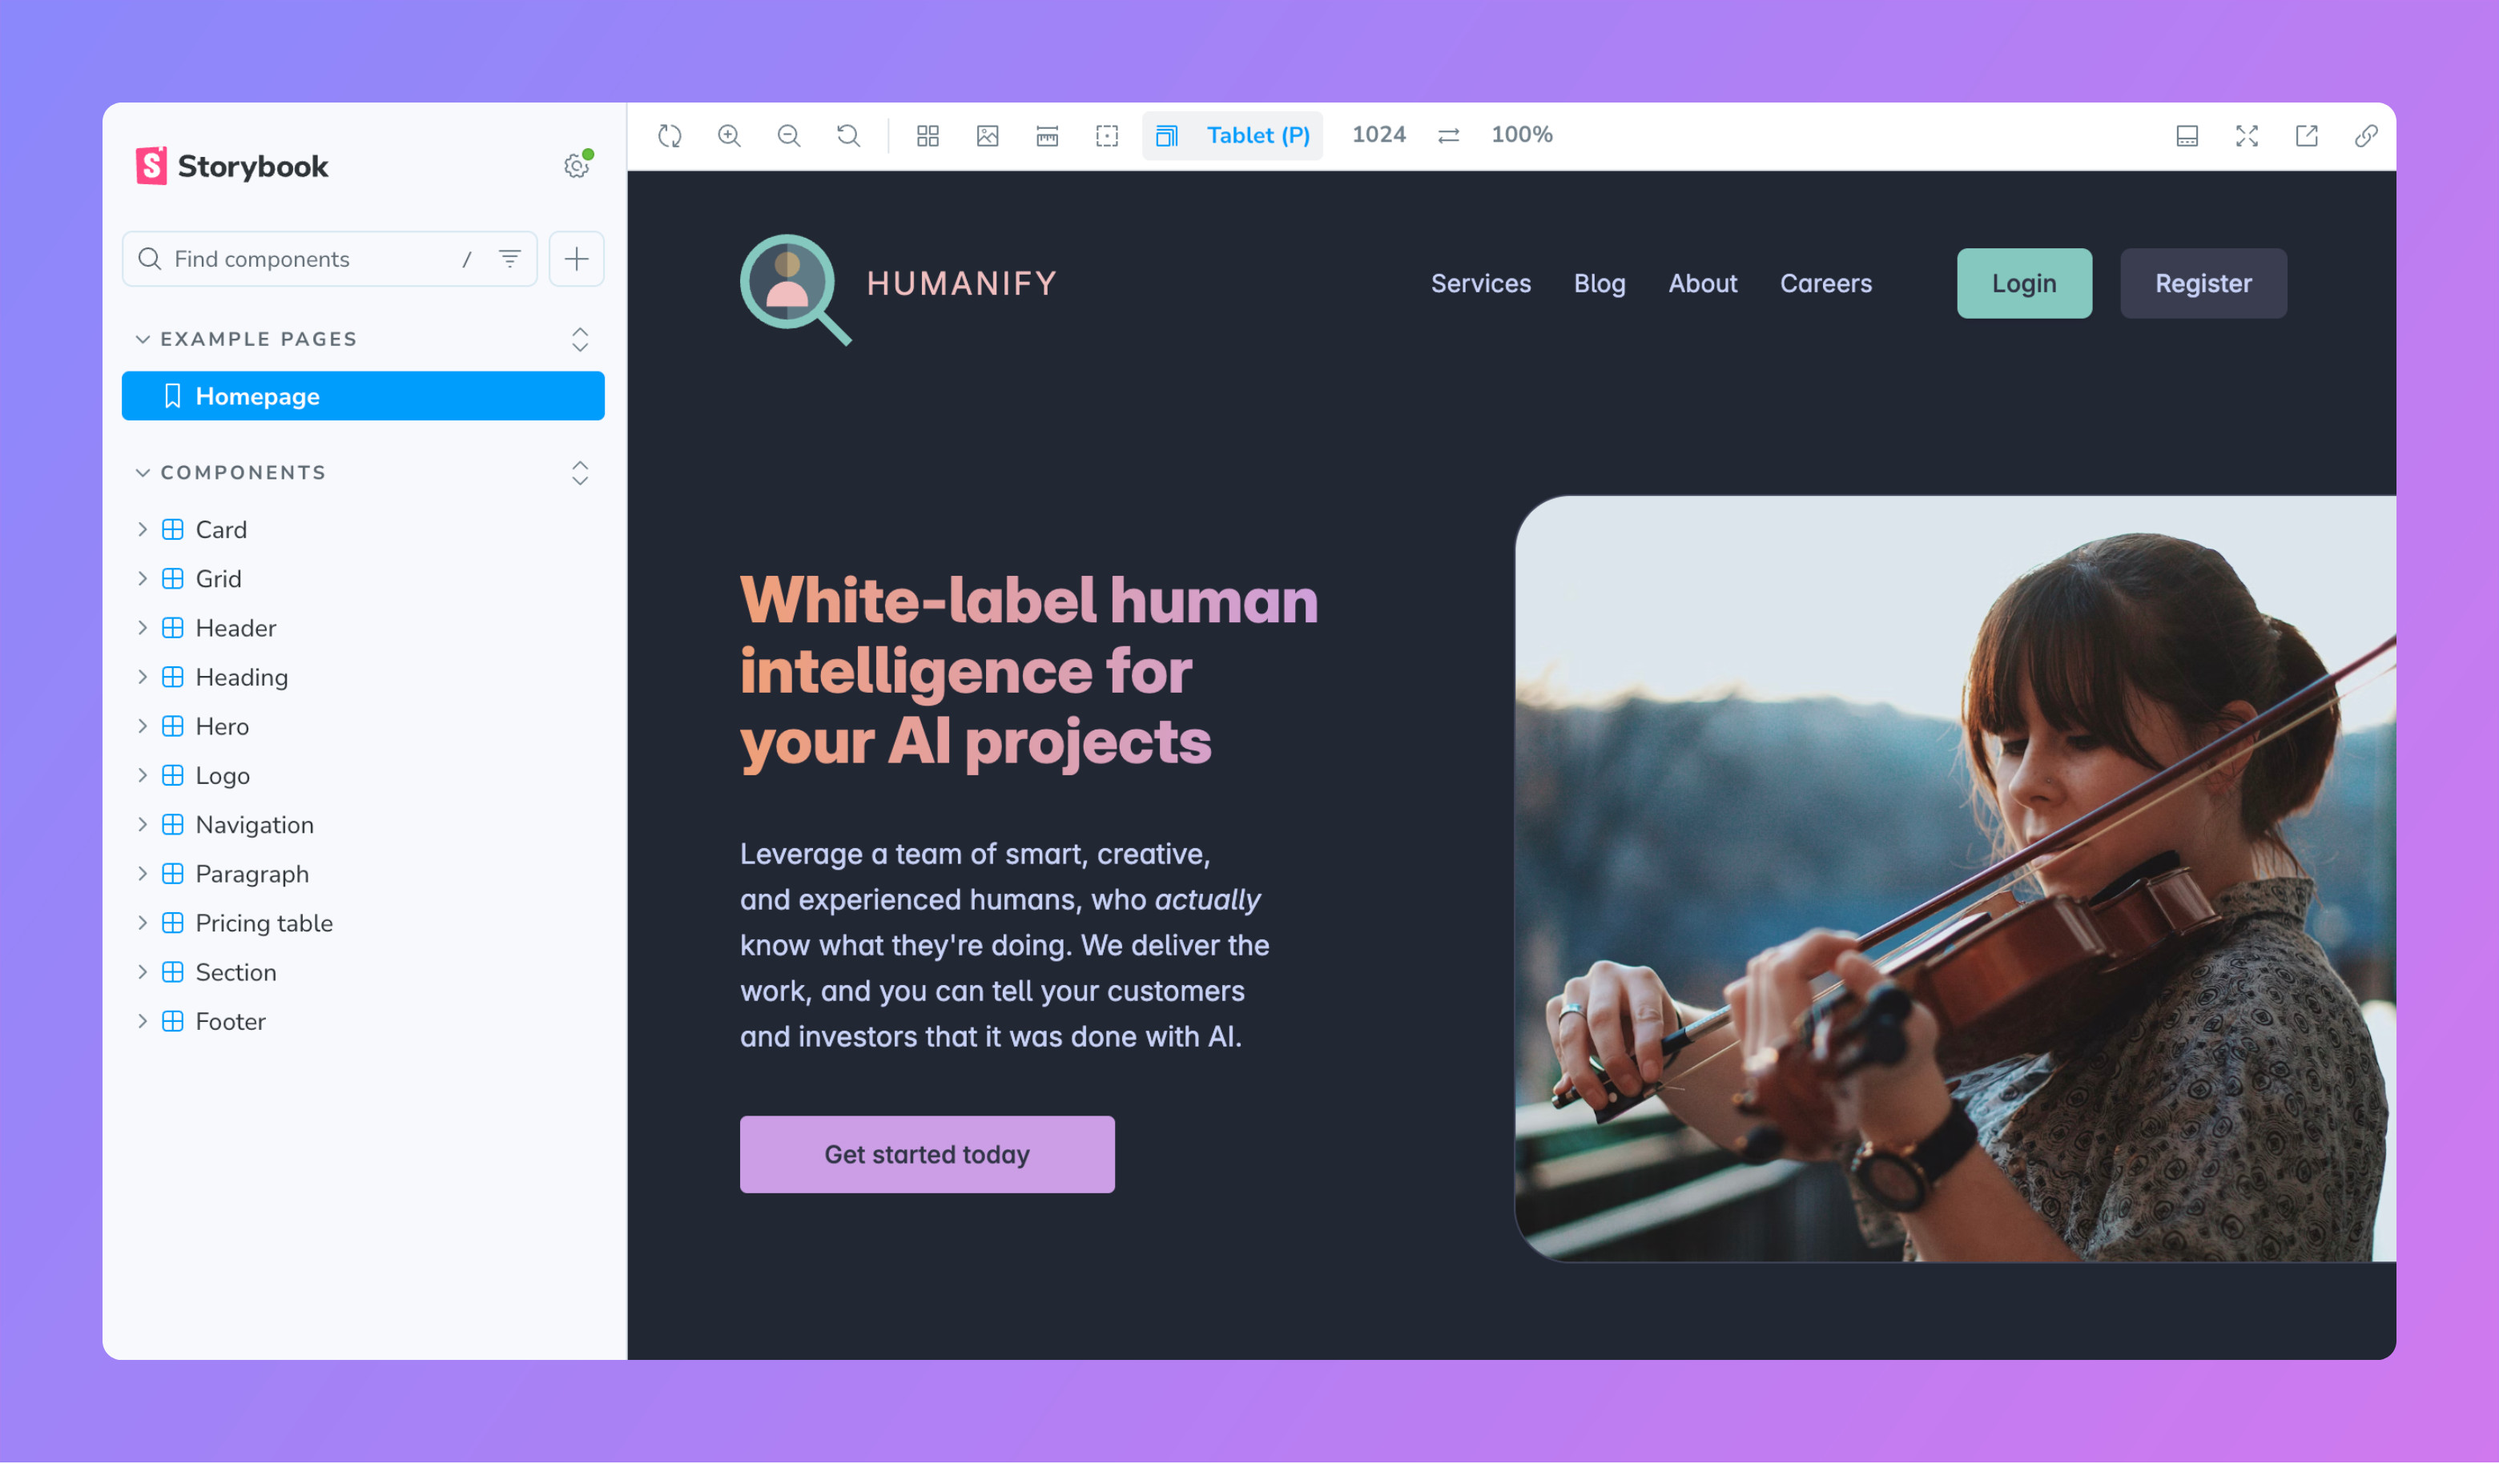
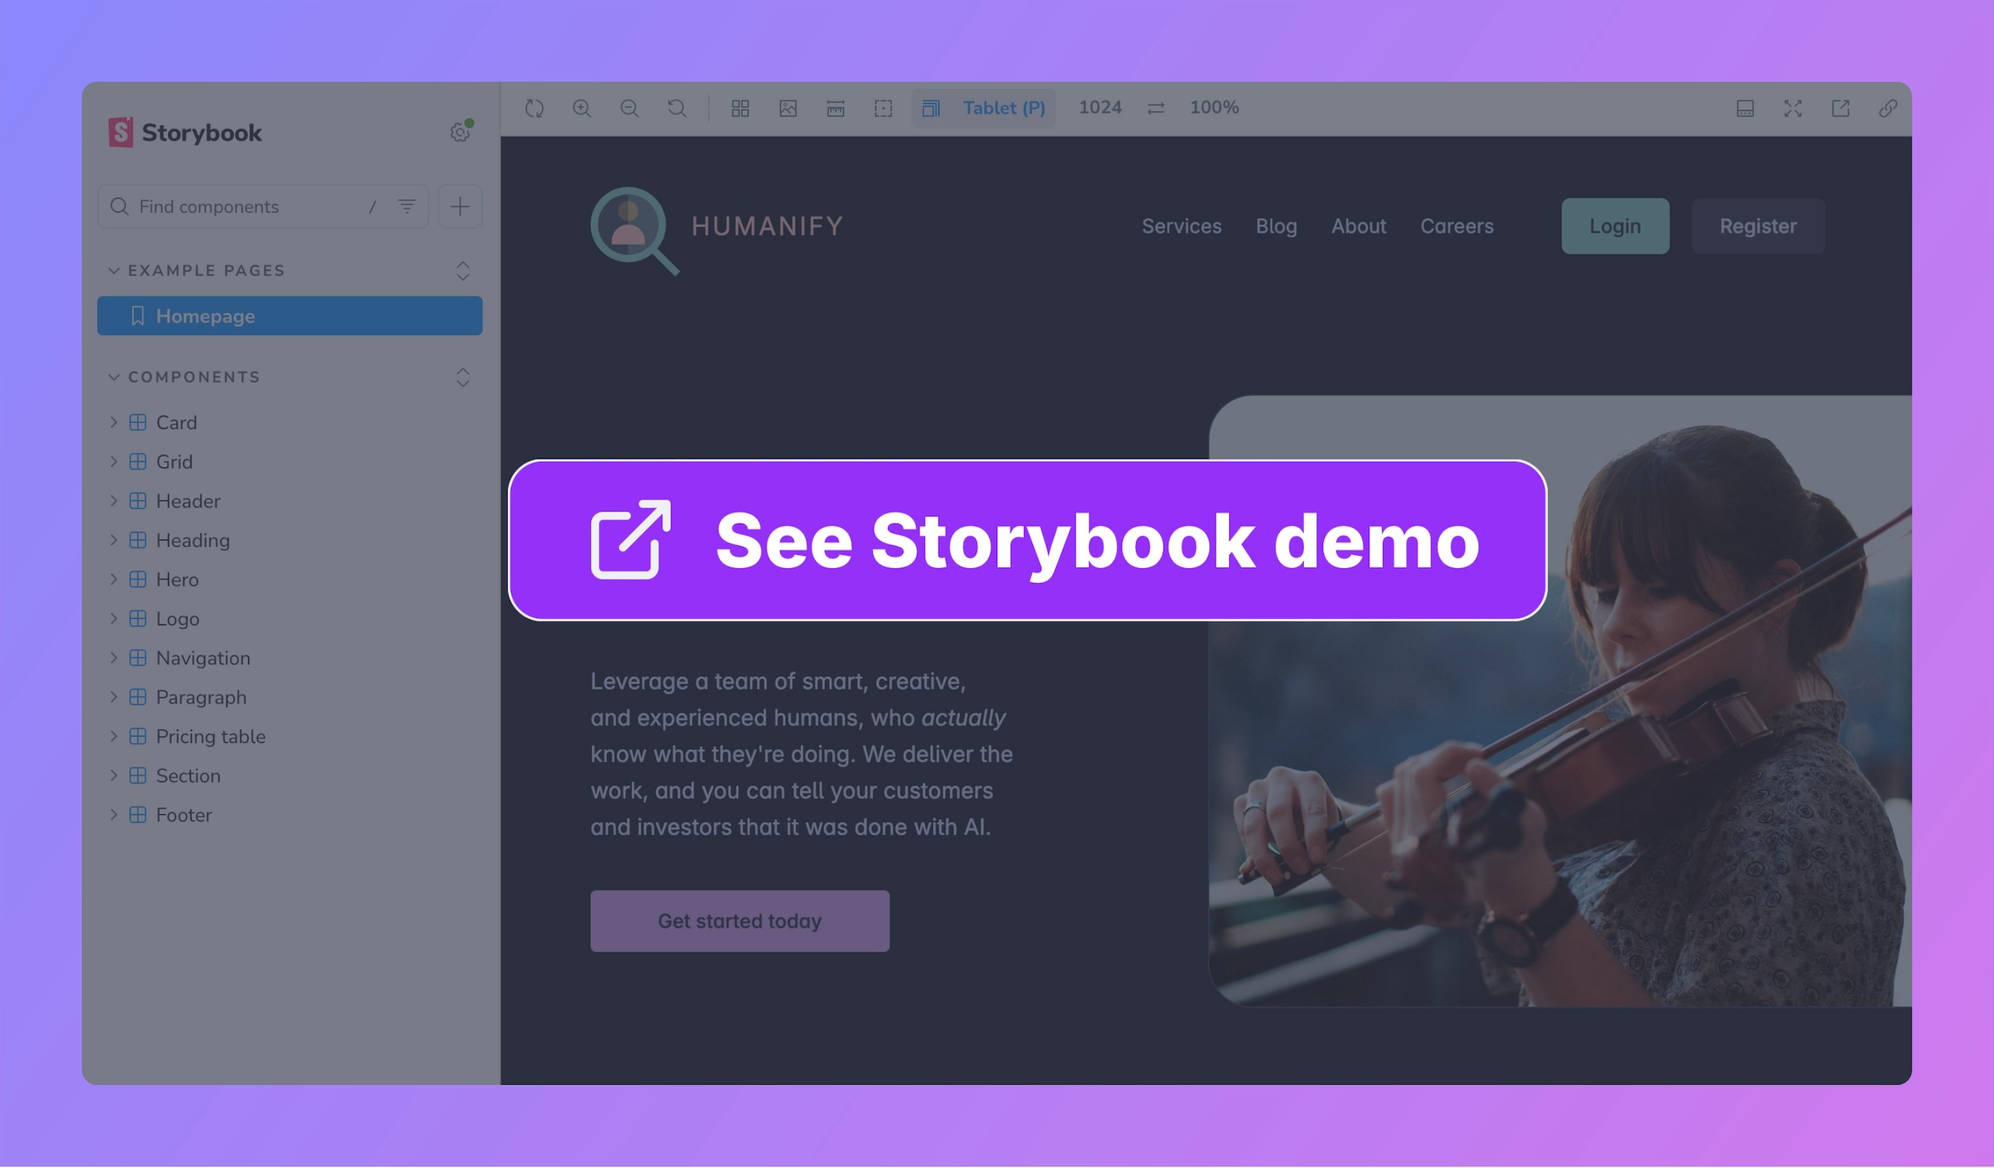
docs(readme): link screenshot

diff --git a/README.md b/README.md
@@ -4,7 +4,7 @@ Build and test
 [Drupal Canvas Code Components](https://project.pages.drupalcode.org/canvas/code-components)
 with this preconfigured development environment.
 
-![Screenshot](./screenshot.jpg)
+[![Screenshot](./screenshot.jpg)](https://canvas-cc-starter-storybook.balintbrews.com)
 
 [Drupal Canvas](https://www.drupal.org/project/canvas) has an in-browser code
 editor for authoring components using React/Preact and Tailwind CSS. Compiling
